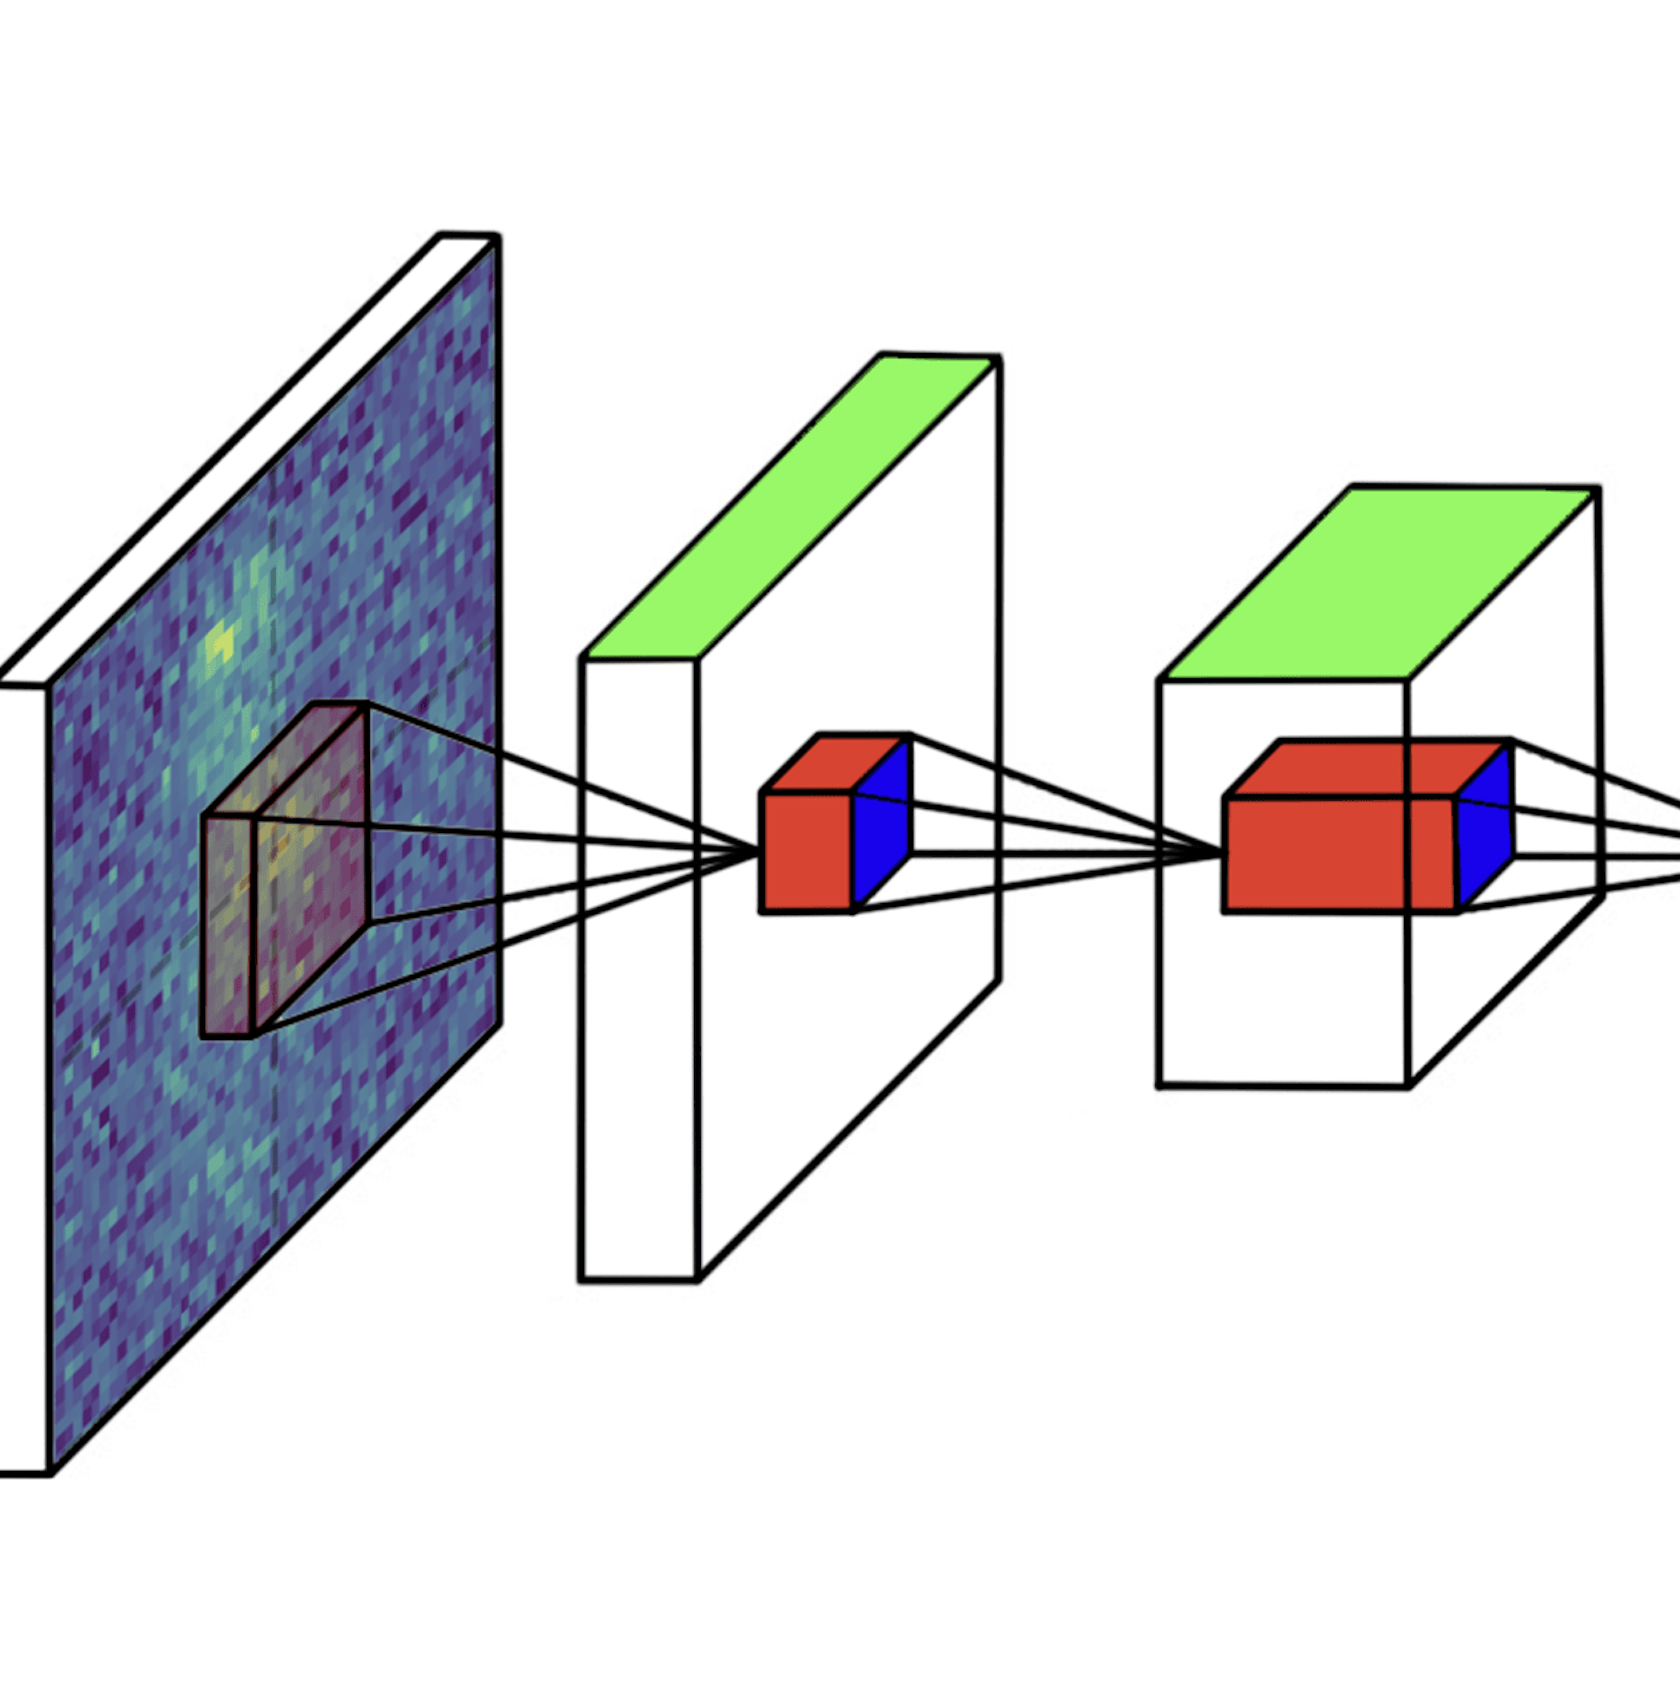
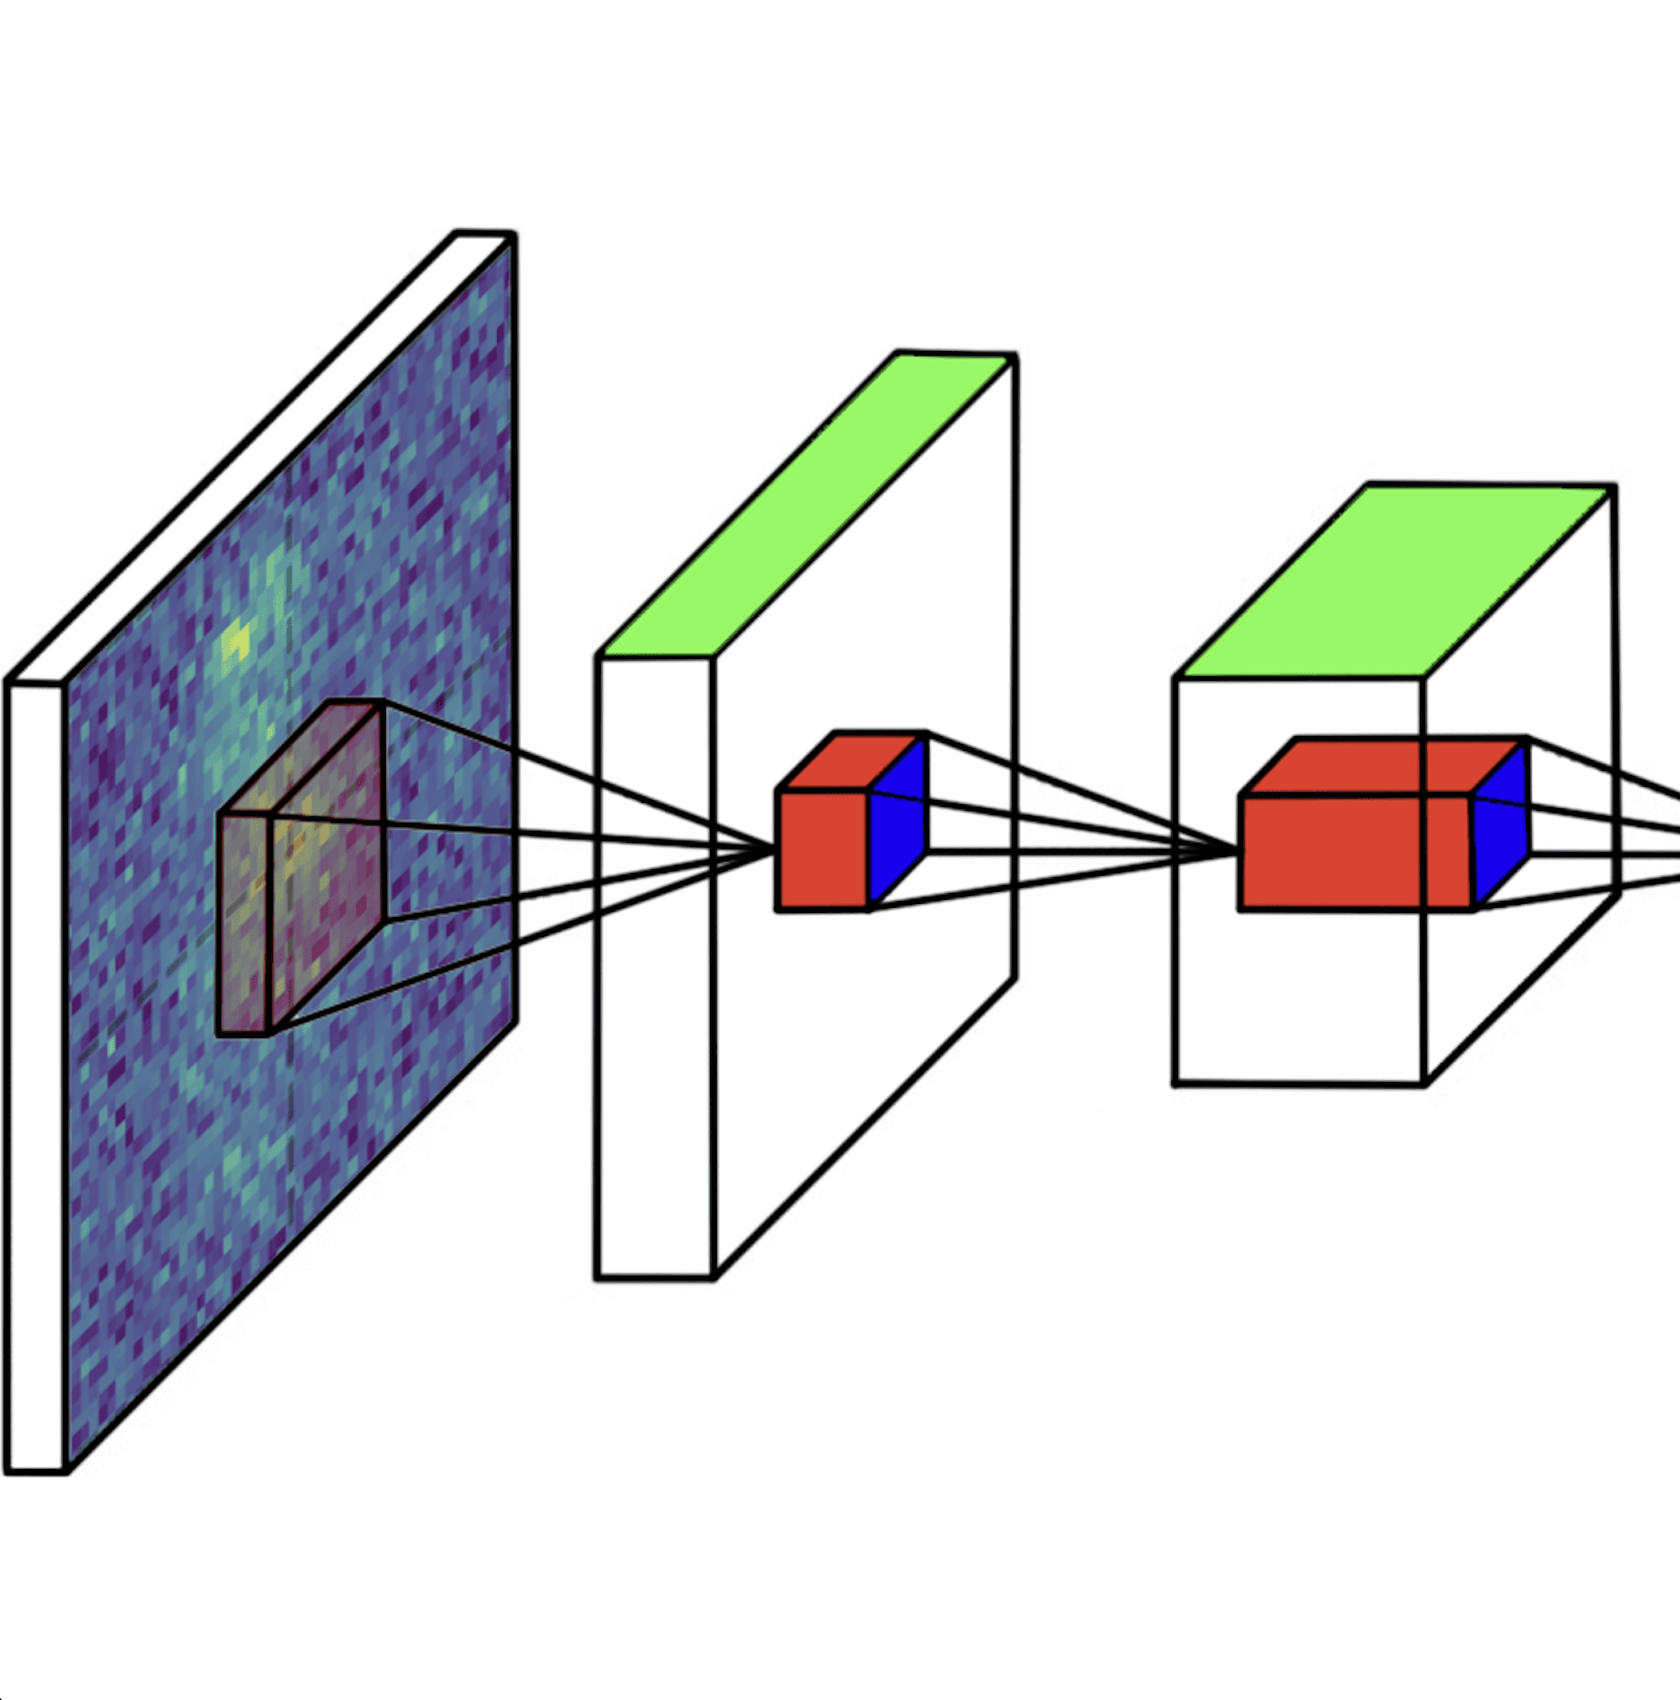
adding image grid

diff --git a/docs/index.rst b/docs/index.rst
@@ -21,7 +21,7 @@ The program provides four core modules:
    :gutter: 2
 
    .. grid-item-card:: Catalog Generation
-      :link: source/Catalog Generation
+      :link: https://pybia.readthedocs.io/en/latest/source/Catalog%20Generation.html
       :text-align: center
 
       .. image:: _static/catalog_img_link.png
@@ -31,7 +31,7 @@ The program provides four core modules:
       Build a morphological catalog from imaging data using image segmentation.
 
    .. grid-item-card:: Supervised Learning
-      :link: source/Supervised Learning Algorithms
+      :link: https://pybia.readthedocs.io/en/latest/source/Supervised%20Learning%20Algorithms.html
       :text-align: center
 
       .. image:: _static/supervised_model_img_link.png
@@ -41,7 +41,7 @@ The program provides four core modules:
       Train and optimize supervised machine learning models for classification.
 
    .. grid-item-card:: Anomaly Detection
-      :link: source/Anomaly Detection
+      :link: https://pybia.readthedocs.io/en/latest/source/Anomaly%20Detection.html
       :text-align: center
 
       .. image:: _static/outlier_img_link.png
@@ -51,7 +51,7 @@ The program provides four core modules:
       Identify unusual sources with an unsupervised outlier-removal pipeline.
 
    .. grid-item-card:: Deep Learning Classification
-      :link: source/Deep Learning Algorithms
+      :link: https://pybia.readthedocs.io/en/latest/source/Deep%20Learning%20Algorithms.html
       :text-align: center
 
       .. image:: _static/cnn_model_img_link.png
